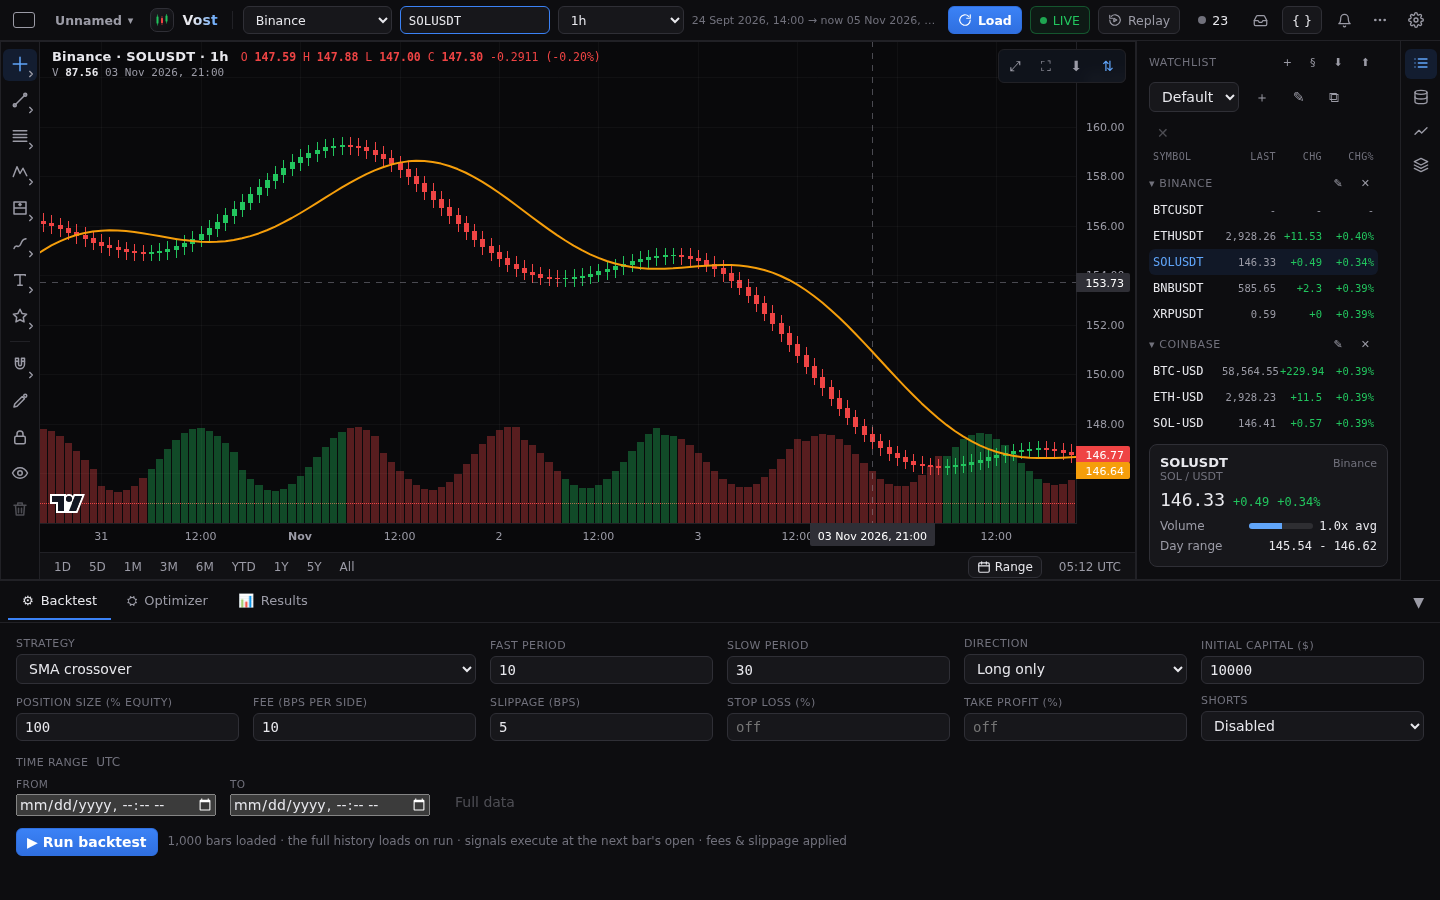
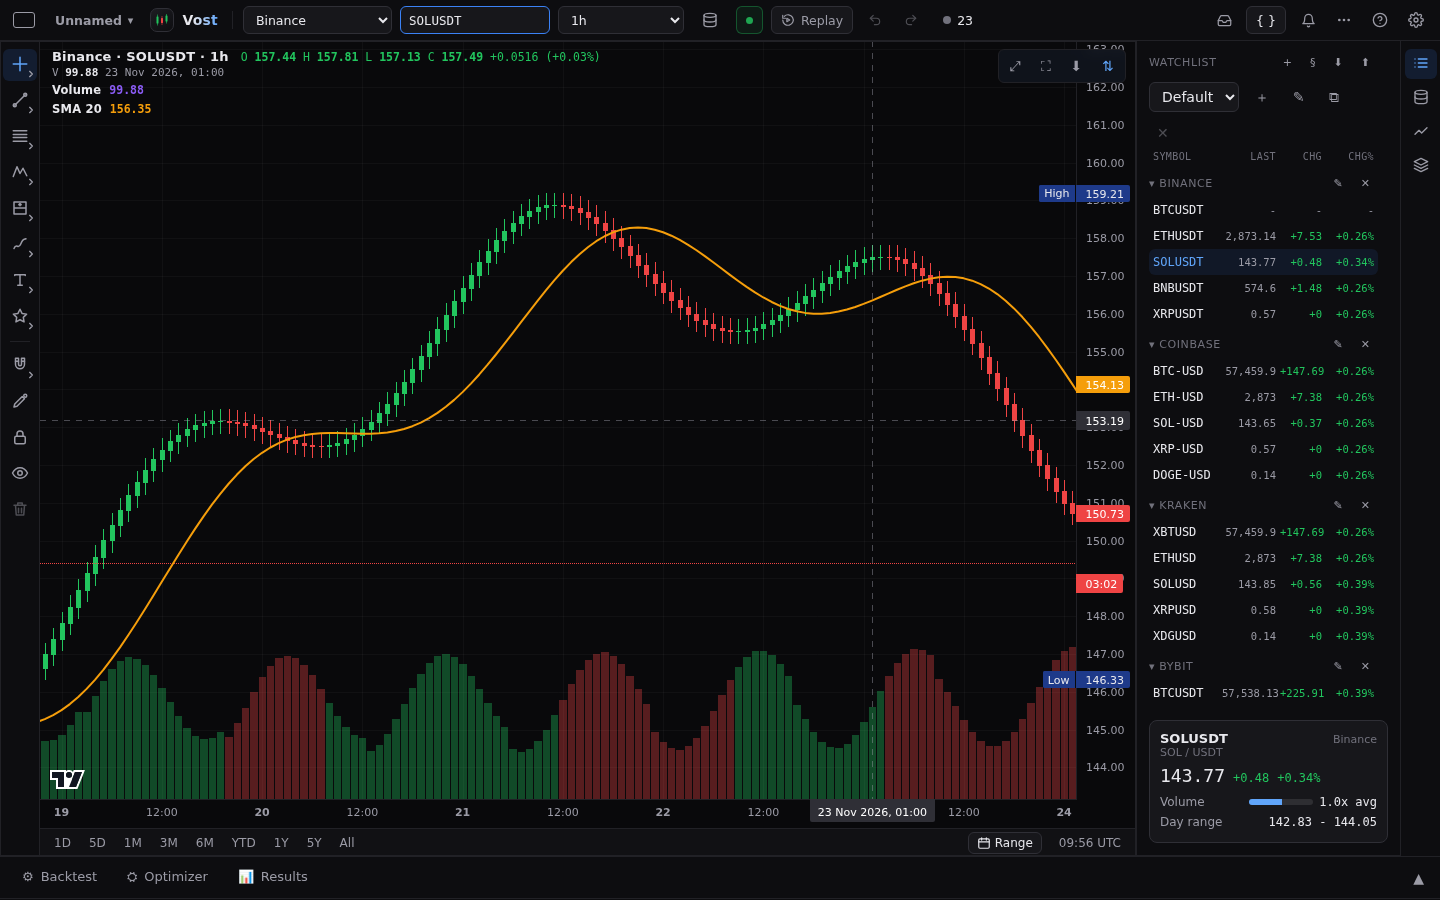
Carry the chart view across a symbol switch by bar positions, keeping empty space (#479)

diff --git a/client/src/lib/carryView.test.ts b/client/src/lib/carryView.test.ts
@@ -1,6 +1,6 @@
 import { describe, expect, it } from 'vitest';
 import type { Candle } from '../types';
-import { carriedView, isAssetSwitch, type SeriesIdentity } from './carryView';
+import { carriedView, isAssetSwitch, logicalAtTime, timeAtLogical, type SeriesIdentity } from './carryView';
 
 const H = 3600;
 const bars = (first: number, n: number): Candle[] =>
@@ -21,35 +21,52 @@ describe('isAssetSwitch', () => {
   });
 });
 
+describe('timeAtLogical and logicalAtTime', () => {
+  const t0 = 1_000_000 * H;
+  const cs = bars(t0, 100);
+  it('round-trip inside and outside the data, with fractional indexes', () => {
+    for (const i of [-200, -0.5, 0, 0.25, 10, 50.75, 98.5, 99, 99.5, 250]) {
+      expect(logicalAtTime(cs, timeAtLogical(cs, i, H), H)).toBeCloseTo(i, 6);
+    }
+  });
+  it('extrapolates by one bar length per index past the data', () => {
+    expect(timeAtLogical(cs, -3, H)).toBe(t0 - 3 * H);
+    expect(timeAtLogical(cs, 102, H)).toBe(t0 + 99 * H + 3 * H);
+  });
+  it('shifts the index when bars are prepended', () => {
+    const t = timeAtLogical(cs, 5, H);
+    expect(logicalAtTime([...bars(t0 - 40 * H, 40), ...cs], t, H)).toBeCloseTo(45, 6);
+  });
+});
+
 describe('carriedView', () => {
   const t0 = 1_000_000 * H;
+  const view = (from: number, to: number, n = 1000) => ({ logical: { from, to }, candles: bars(t0, n) });
   it('keeps the bar count and right offset at the new last bar on the live edge', () => {
-    const old = { logical: { from: 700, to: 1002 }, from: null, to: null, length: 1000 };
-    const v = carriedView(old, bars(t0, 500));
+    const v = carriedView({ logical: { from: 700, to: 1002 }, candles: bars(t0, 1000) }, bars(t0, 500));
     expect(v).toEqual({ kind: 'logical', range: { from: 500 - 1 + 3 - 302, to: 502 } });
   });
   it('maps a scrolled back window to the same times', () => {
-    const old = { logical: { from: 100, to: 200 }, from: t0 + 100 * H, to: t0 + 200 * H, length: 1000 };
-    expect(carriedView(old, bars(t0, 1000))).toEqual({ kind: 'time', from: t0 + 100 * H, to: t0 + 200 * H, needFrom: null });
+    expect(carriedView(view(100, 200), bars(t0, 1000))).toEqual({ kind: 'time', from: t0 + 100 * H, to: t0 + 200 * H, needFrom: null });
   });
-  it('asks for older bars when the window starts before the first bar', () => {
-    const old = { logical: { from: 100, to: 200 }, from: t0 - 50 * H, to: t0 + 20 * H, length: 1000 };
-    expect(carriedView(old, bars(t0, 1000))).toEqual({ kind: 'time', from: t0 - 50 * H, to: t0 + 20 * H, needFrom: t0 - 50 * H });
+  it('keeps empty space before the first old bar and asks for older bars', () => {
+    expect(carriedView(view(-200, 300), bars(t0, 1000))).toEqual({ kind: 'time', from: t0 - 200 * H, to: t0 + 300 * H, needFrom: t0 - 200 * H });
   });
-  it('asks for older bars when the whole window is before the first bar', () => {
-    const old = { logical: { from: 100, to: 200 }, from: t0 - 80 * H, to: t0 - 20 * H, length: 1000 };
-    expect(carriedView(old, bars(t0, 1000))).toEqual({ kind: 'time', from: t0 - 80 * H, to: t0 - 20 * H, needFrom: t0 - 80 * H });
+  it('asks for older bars when the window starts before the first new bar', () => {
+    expect(carriedView(view(100, 200), bars(t0 + 150 * H, 1000))).toEqual({
+      kind: 'time',
+      from: t0 + 100 * H,
+      to: t0 + 200 * H,
+      needFrom: t0 + 100 * H,
+    });
   });
   it('fits when the window holds fewer than the minimum bars', () => {
-    const old = { logical: { from: 100, to: 200 }, from: t0 + 10 * H, to: t0 + 11 * H, length: 1000 };
-    expect(carriedView(old, bars(t0, 1000))).toBeNull();
+    expect(carriedView(view(10, 11), bars(t0, 1000))).toBeNull();
   });
-  it('ends at the last bar when the new series ends before the old window end', () => {
-    const old = { logical: { from: 100, to: 200 }, from: t0 + 100 * H, to: t0 + 200 * H, length: 1000 };
-    expect(carriedView(old, bars(t0, 150))).toEqual({ kind: 'time', from: t0 + 100 * H, to: t0 + 149 * H, needFrom: null });
+  it('keeps the span when the new series ends before the old window end', () => {
+    expect(carriedView(view(100, 200), bars(t0, 150))).toEqual({ kind: 'time', from: t0 + 100 * H, to: t0 + 200 * H, needFrom: null });
   });
   it('fits when the new series ends before the window starts', () => {
-    const old = { logical: { from: 100, to: 200 }, from: t0 + 100 * H, to: t0 + 200 * H, length: 1000 };
-    expect(carriedView(old, bars(t0, 50))).toBeNull();
+    expect(carriedView(view(100, 200), bars(t0, 50))).toBeNull();
   });
 });

diff --git a/client/src/lib/carryView.ts b/client/src/lib/carryView.ts
@@ -1,4 +1,5 @@
 import type { Candle } from '../types';
+import { barSeconds } from './backtest/higherTimeframe';
 import { MIN_RANGE_BARS } from './timeRange';
 
 /** What identifies the series a chart shows. `datasetId` is a dataset id, or a marker for a chart range; null for provider data. */
@@ -16,17 +17,40 @@ export function isAssetSwitch(prev: SeriesIdentity | null, next: SeriesIdentity)
   return prev.providerId !== next.providerId || prev.symbol !== next.symbol;
 }
 
-/** The view of the series that is being replaced. `from`/`to` are the times of the visible edges (null when unknown). */
+/** The view of the series that is being replaced: its logical range over its own bars. */
 export interface OldView {
   logical: { from: number; to: number };
-  from: number | null;
-  to: number | null;
-  length: number;
+  candles: readonly Candle[];
 }
 
 export type CarriedView =
   | { kind: 'logical'; range: { from: number; to: number } }
   | { kind: 'time'; from: number; to: number; needFrom: number | null };
+
+/** The time at logical index `i`: interpolated between bars, extrapolated by `barSec` per bar outside the data. */
+export function timeAtLogical(candles: readonly Candle[], i: number, barSec: number): number {
+  const n = candles.length;
+  if (i <= 0) return candles[0].time + i * barSec;
+  if (i >= n - 1) return candles[n - 1].time + (i - (n - 1)) * barSec;
+  const lo = Math.floor(i);
+  const f = i - lo;
+  return candles[lo].time + f * (candles[lo + 1].time - candles[lo].time);
+}
+
+/** The logical index of time `t`: interpolated between bars, extrapolated by `barSec` per bar outside the data. */
+export function logicalAtTime(candles: readonly Candle[], t: number, barSec: number): number {
+  const n = candles.length;
+  if (t <= candles[0].time) return (t - candles[0].time) / barSec;
+  if (t >= candles[n - 1].time) return n - 1 + (t - candles[n - 1].time) / barSec;
+  let lo = 0;
+  let hi = n - 1;
+  while (hi - lo > 1) {
+    const mid = (lo + hi) >> 1;
+    if (candles[mid].time <= t) lo = mid;
+    else hi = mid;
+  }
+  return lo + (t - candles[lo].time) / (candles[lo + 1].time - candles[lo].time);
+}
 
 /** How many bars of `candles` lie in [from, to]. */
 export function windowBars(candles: readonly Candle[], from: number, to: number): number {
@@ -37,23 +61,24 @@ export function windowBars(candles: readonly Candle[], from: number, to: number)
 
 /**
  * The view to show on the new series after an asset switch, or null to fit all bars. At the live edge (the old view reached
- * the last bar): the same bar count and right offset ending at the new last bar. Scrolled back: the same time window, with
- * `needFrom` set when it starts before the first new bar.
+ * the last bar): the same bar count and right offset ending at the new last bar. Scrolled back: the same time window, taken
+ * from the old logical range so empty space past the data is kept (not clipped to the bars), with `needFrom` set when it
+ * starts before the first new bar.
  */
 export function carriedView(old: OldView, candles: readonly Candle[]): CarriedView | null {
   const n = candles.length;
-  if (n === 0 || old.length === 0) return null;
+  const oldN = old.candles.length;
+  if (n === 0 || oldN === 0) return null;
   const { from: lf, to: lt } = old.logical;
-  if (lt >= old.length - 1) {
-    const to = n - 1 + (lt - (old.length - 1));
+  if (lt >= oldN - 1) {
+    const to = n - 1 + (lt - (oldN - 1));
     return { kind: 'logical', range: { from: to - (lt - lf), to } };
   }
-  if (old.from == null || old.to == null) return null;
-  const first = candles[0].time;
-  const last = candles[n - 1].time;
-  const to = Math.min(old.to, last);
-  if (old.from > to) return null;
-  if (old.from < first) return { kind: 'time', from: old.from, to, needFrom: old.from };
-  if (windowBars(candles, old.from, to) < MIN_RANGE_BARS) return null;
-  return { kind: 'time', from: old.from, to, needFrom: null };
+  const oldBar = barSeconds(old.candles as Candle[]);
+  const from = timeAtLogical(old.candles, lf, oldBar);
+  const to = timeAtLogical(old.candles, lt, oldBar);
+  if (from > candles[n - 1].time) return null;
+  if (from < candles[0].time) return { kind: 'time', from, to, needFrom: from };
+  if (windowBars(candles, from, to) < MIN_RANGE_BARS) return null;
+  return { kind: 'time', from, to, needFrom: null };
 }

diff --git a/client/src/components/ChartPanel.tsx b/client/src/components/ChartPanel.tsx
@@ -54,7 +54,8 @@ import { FavoritesBar } from './FavoritesBar';
 import { useMediaQuery } from '../lib/useMediaQuery';
 import { historyNeededFrom, resetLogicalRange, resetRangeKey } from '../lib/quickRange';
 import { HISTORY_PREFETCH_BARS } from '../lib/historyPaging';
-import { carriedView, isAssetSwitch, windowBars, type SeriesIdentity } from '../lib/carryView';
+import { barSeconds } from '../lib/backtest/higherTimeframe';
+import { carriedView, isAssetSwitch, logicalAtTime, windowBars, type SeriesIdentity } from '../lib/carryView';
 import { MIN_RANGE_BARS } from '../lib/timeRange';
 import { useChart, useChartStore } from '../state/chartContext';
 import { barTimeAt, drivesTime, publishCrosshair, publishTimeRange, sameTimeRange, setHovered, subscribe, type TimeRangeSync } from '../lib/layoutSync';
@@ -438,11 +439,14 @@ export function ChartPanel({
     if (stale()) return;
     const cs = chartStore.getState().candles;
     if (cs.length === 0) return;
-    const start = Math.max(from, cs[0].time);
     lastLeftEdgeRef.current = null; // moving to the carried window is not a scroll back: do not page for it
     try {
-      if (needFrom != null && windowBars(cs, start, to) < MIN_RANGE_BARS) chart.timeScale().fitContent();
-      else chart.timeScale().setVisibleRange({ from: start as UTCTimestamp, to: to as UTCTimestamp });
+      if (needFrom != null && windowBars(cs, from, to) < MIN_RANGE_BARS) chart.timeScale().fitContent();
+      else {
+        // By bar positions on the bars as they are now (paging shifted the indexes): empty space at either end is kept.
+        const bar = barSeconds(cs);
+        chart.timeScale().setVisibleLogicalRange({ from: logicalAtTime(cs, from, bar), to: logicalAtTime(cs, to, bar) });
+      }
     } catch {
       chart.timeScale().fitContent();
     }
@@ -497,8 +501,6 @@ export function ChartPanel({
     // The view of the series being replaced, read before setData: an asset switch on the same timeframe carries it over.
     const ts = chart.timeScale();
     const oldLogical = dataChanged ? ts.getVisibleLogicalRange() : null;
-    const oldTimes = dataChanged ? ts.getVisibleRange() : null;
-    const oldLength = prev?.length ?? 0;
     const st0 = chartStore.getState();
     const series: SeriesIdentity = {
       providerId: st0.providerId,
@@ -525,8 +527,8 @@ export function ChartPanel({
       lastLeftEdgeRef.current = null; // the fit below is not a scroll back: do not page for it
       carryingRef.current = false;
       const carried =
-        oldLogical && isAssetSwitch(lastSeriesRef.current, series)
-          ? carriedView({ logical: oldLogical, from: oldTimes ? Number(oldTimes.from) : null, to: oldTimes ? Number(oldTimes.to) : null, length: oldLength }, candles)
+        oldLogical && prev && isAssetSwitch(lastSeriesRef.current, series)
+          ? carriedView({ logical: oldLogical, candles: prev }, candles)
           : null;
       lastSeriesRef.current = series;
       if (carried?.kind === 'logical') {

diff --git a/e2e/capture/scenarios/symbol-view.ts b/e2e/capture/scenarios/symbol-view.ts
@@ -17,7 +17,7 @@ async function barTimeAt(page: Page, fraction: number): Promise<number> {
 
 export const symbolView: Scenario = {
   name: 'symbol-view',
-  description: 'Switching symbol on the same timeframe keeps the dates and zoom: at the live edge the new last bar ends the same bar count, scrolled back the same time window shows (older pages load when the window starts before the new first bar)',
+  description: 'Switching symbol on the same timeframe keeps the dates and zoom: at the live edge the new last bar ends the same bar count, scrolled back the same time window shows (older pages load when the window starts before the new first bar), also when the old view had empty space before its first bar (1m)',
   viewports: ['desktop'],
   async run(ctx) {
     const { page } = ctx;
@@ -105,6 +105,24 @@ export const symbolView: Scenario = {
       check('past loaded left', Math.abs(after.left - before.left) <= BAR_SECONDS, `${iso(before.left)} -> ${iso(after.left)}`);
       check('older pages loaded for the new symbol', pagedCount() > paged, `${pagedCount() - paged} new paged requests`);
       check('past loaded right', Math.abs(after.right - before.right) <= BAR_SECONDS, `${iso(before.right)} -> ${iso(after.right)}`);
+    });
+
+    // 4. Empty space before the first loaded bar: the carried view keeps the zoom and the bar positions.
+    await ctx.step('1m with empty space before the first bar: zoom and dates kept', async () => {
+      await page.locator('select[title="Timeframe"]').selectOption('1m');
+      await page.locator('.chart-legend .legend-title', { hasText: '· 1m' }).waitFor();
+      await page.waitForTimeout(1500);
+      await switchTo('ETHUSDT');
+      await page.locator('button[title="Reset view"]').click();
+      await page.waitForTimeout(1500);
+      await drag(0.5, 0.7); // back 20% of the width: the first loaded bar sits inside the view
+      const before = await win();
+      await ctx.screenshot('empty-before');
+      await switchTo('BTCUSDT');
+      const after = await win();
+      await ctx.screenshot('empty-after');
+      check('empty space left', Math.abs(after.left - before.left) <= 60, `${iso(before.left)} -> ${iso(after.left)}`);
+      check('empty space right', Math.abs(after.right - before.right) <= 60, `${iso(before.right)} -> ${iso(after.right)}`);
     });
 
     await ctx.writeText('checks', [...lines, 'history requests:', ...history().map((u) => `  ${u}`), ''].join('\n'));
